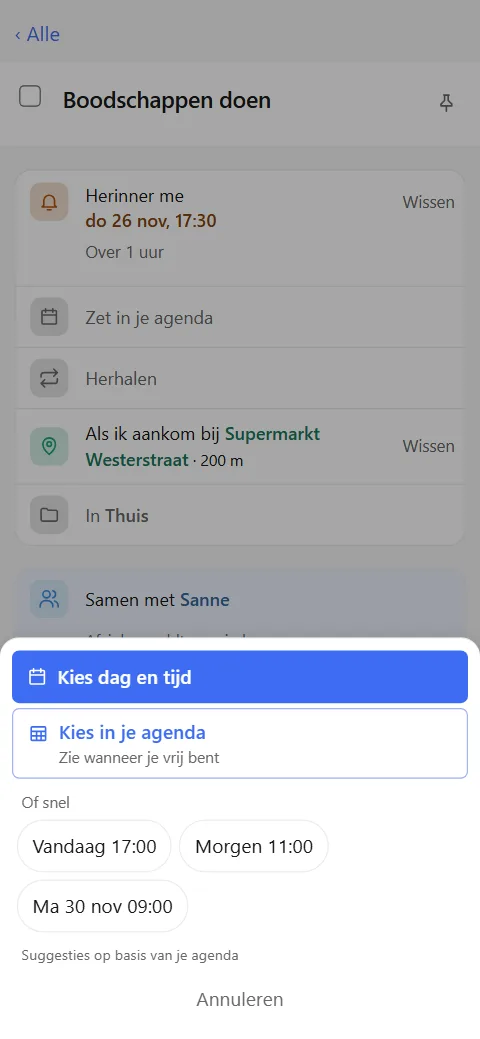
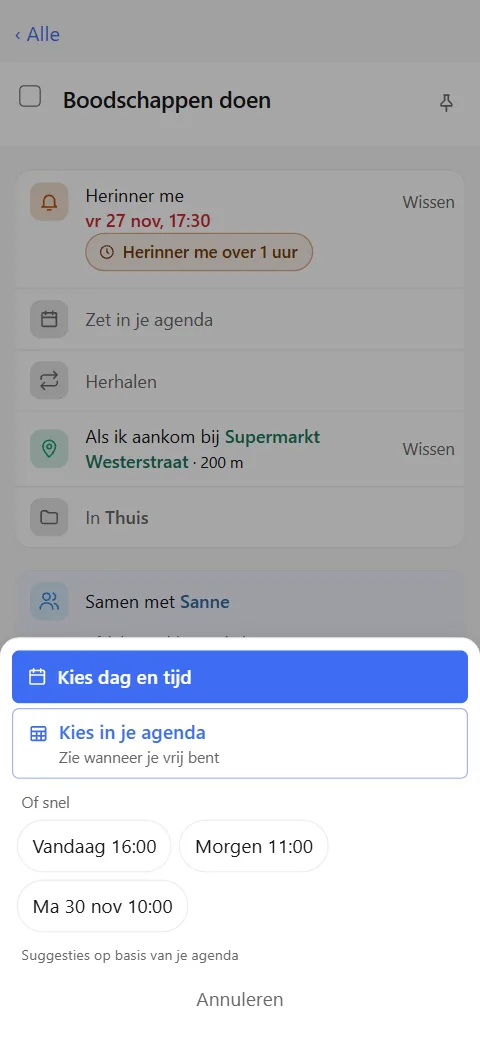
Q-10: "Herinner me over 1 uur" als rustige pil-knop; website-plaatjes herinnering vernieuwd
- De actie op een eigen regel onder een stap (steps.js) is nu een pil in de kleur van de stap, met een klokje
  (nieuw icoon clock), linkerrand onder de tekst; knop 44 px op touch, compact met muis, focusring op de pil.
- Wat is er nieuw (20261128.snooze) noemt de knop; handleiding tasks-and-lists bijgewerkt.
- site/public/img/app/nl-remind.webp en en-remind.webp opnieuw gemaakt met de huidige app (zelfde scene).
- CACHE v118.

diff --git a/public/style.css b/public/style.css
@@ -136,7 +136,17 @@ button.step-head:focus-visible { background: var(--hover); }
 .step.stack .step-txt { white-space: normal; }
 .step.stack .step-val { display: block; }
 .step.stack:has(> .step-line) .step-txt { padding-bottom: 0; }
-.step-line { display: flex; margin-top: -6px; padding: 0 0 4px 32px; }
+.step-line { display: flex; margin-top: -6px; padding: 0 0 4px 40px; }
+/* De actie op een eigen regel ("Herinner me over 1 uur") is een echte knop: een rustige pil in de kleur van de stap, met de
+   linkerrand recht onder de tekst van de zin. De knop zelf blijft 44 px hoog (touch); alleen de pil is zichtbaar. */
+.step-act.step-pill { display: flex; align-items: center; min-width: 0; max-width: 100%; padding: 0; background: transparent; text-align: left; }
+.step-pill:hover, .step-pill:focus-visible { background: transparent; }
+.step-pill:focus-visible { outline: none; }
+.step-pill-in { display: inline-flex; align-items: center; gap: 6px; min-height: 32px; padding: 3px 12px 3px 10px; border: 1px solid color-mix(in srgb, var(--c) 45%, transparent); border-radius: 999px;
+  background: color-mix(in srgb, var(--c) 10%, var(--card)); color: color-mix(in srgb, var(--c) 60%, var(--text)); font-weight: 500; line-height: 1.25; transition: background .15s, border-color .15s; }
+.step-pill:hover .step-pill-in, .step-pill:focus-visible .step-pill-in { border-color: var(--c); background: color-mix(in srgb, var(--c) 20%, var(--card)); }
+.step-pill:active .step-pill-in { background: color-mix(in srgb, var(--c) 28%, var(--card)); }
+.step-pill:focus-visible .step-pill-in { outline: 2px solid var(--accent); outline-offset: 2px; }
 .step-body { margin: 2px 0 10px 40px; }
 #add .step-input { width: 100%; padding: 7px 10px; border: 1px solid var(--line); border-radius: 8px; background: var(--card); color: var(--text); font: inherit; font-size: .9375rem; }
 #add .step-input:focus { outline: 2px solid var(--accent); outline-offset: 0; }
@@ -579,7 +589,7 @@ textarea.dt:disabled { color: var(--muted); text-decoration: line-through; }
   #detail .share-list .step-act, #detail .dfoot button.danger { min-height: 44px; }
 }
 /* Met een muis mag de knop op de eigen regel lager: de rij wordt dan minder hoog */
-@media (pointer: fine) { .step-line .step-act { min-height: 32px; } }
+@media (pointer: fine) { .step-line .step-act { min-height: 36px; } .step-pill-in { min-height: 28px; } }
 @media all {
   #detail { --dpx: 18px; --inset: color-mix(in srgb, var(--card) 50%, var(--side)); --tile: color-mix(in srgb, var(--muted) 18%, var(--card)); background: var(--side); }
   #detail .dhead { margin: 0 calc(-1 * var(--dpx)); padding: 14px var(--dpx); background: var(--bg); border-bottom: 1px solid var(--line); }
@@ -594,7 +604,7 @@ textarea.dt:disabled { color: var(--muted); text-decoration: line-through; }
   #detail .step-head { gap: 14px; min-height: 50px; padding: 0 14px 0 12px; border-radius: 0; }
   #detail .step-dot { width: 32px; height: 32px; border: 0; border-radius: 9px; background: var(--tile); }
   #detail .step-dot .ico { width: 18px; height: 18px; }
-  #detail .step-line { padding: 0 0 6px 50px; } /* 12 + 32 (stip) + 14 (tussenruimte) − 8 (binnenrand knop) */
+  #detail .step-line { padding: 0 0 8px 58px; } /* 12 + 32 (stip) + 14 (tussenruimte): de pil begint onder de tekst */
   #detail .step.on .step-dot { background: color-mix(in srgb, var(--c) 20%, var(--card)); }
   #detail .step-share.on .step-row, #detail .step-share.on .step-hint { background: color-mix(in srgb, var(--accent) 8%, var(--card)); }
   #detail .step-share .step-body, #detail .step-copies .step-body { margin: 0; }

diff --git a/public/i18n.js b/public/i18n.js
@@ -550,7 +550,7 @@ export const STRINGS = {
     'news.20261123.import': 'Moving from Todoist or TickTick: Settings → Data. You see what comes in first (now with repeats and priority), and you can undo the import in one go.',
     'news.20261123.address': 'Settings → Advanced → Keys now shows the address of your Tick, with a Copy button, for connections like Home Assistant.',
     'news.20261126.faster': 'Long lists are much faster: a change to a task is saved and shown right away, without loading the whole list again.',
-    'news.20261128.snooze': '"Remind me in 1 hour" now only shows under a reminder once its time has passed.',
+    'news.20261128.snooze': '"Remind me in 1 hour" is now a clear button, and only shows under a reminder once its time has passed.',
     'news.20261126.design': 'A calmer look: flat task cards without a glow, the reminder date on its own line with "In 1 hour" below it, and bigger buttons in the calendar on your phone.',
     'news.20261125.hatrigger_when': 'A Home Assistant trigger now shows when it notified you and which trigger it was. If none of your devices could be reached, the task waits for the next time.',
     'news.20261124.hatrigger': 'Using Home Assistant? A task can now notify you when something happens at home, like someone coming home or the sun setting. Pick the trigger on the task; you can share triggers with your household (Settings → Home Assistant).',
@@ -2034,7 +2034,7 @@ export const STRINGS = {
     'news.20261123.import': 'Overstappen vanuit Todoist of TickTick: Instellingen → Gegevens. Je ziet eerst wat er binnenkomt (nu met herhalingen en prioriteit), en je kunt de import in één keer ongedaan maken.',
     'news.20261123.address': 'Instellingen → Geavanceerd → Sleutels toont nu het adres van je Tick, met een Kopieer-knop, voor koppelingen zoals Home Assistant.',
     'news.20261126.faster': 'Lange lijsten zijn veel sneller: een wijziging aan een taak staat meteen goed, zonder dat de hele lijst opnieuw laadt.',
-    'news.20261128.snooze': '"Herinner me over 1 uur" staat nu alleen onder een herinnering als de tijd al voorbij is.',
+    'news.20261128.snooze': '"Herinner me over 1 uur" is nu een duidelijke knop, en staat alleen onder een herinnering als de tijd al voorbij is.',
     'news.20261126.design': 'Een rustiger uiterlijk: effen taken zonder gloed, de datum van een herinnering op een eigen regel met "Over 1 uur" eronder, en grotere knoppen in de kalender op je telefoon.',
     'news.20261125.hatrigger_when': 'Een Home Assistant-trigger laat nu zien wanneer hij je meldde en welke trigger het was. Kon geen enkel apparaat bereikt worden, dan wacht de taak op de volgende keer.',
     'news.20261124.hatrigger': 'Gebruik je Home Assistant? Een taak kan je nu een melding geven als er thuis iets gebeurt, zoals iemand die thuiskomt of de zon die ondergaat. Kies de trigger bij de taak; je kunt triggers delen met je huisgenoten (Instellingen → Home Assistant).',

diff --git a/public/steps.js b/public/steps.js
@@ -15,10 +15,11 @@ import { openAgendaPicker } from './agendapick.js';
  * Eén stap: stip met icoon, een zin (vaste woorden en de gekozen waarde, vet in de kleur) en rechts acties zoals Wissen.
  * Zonder `open` is de zin gewone tekst (alleen-lezen, of een subtaak die de lijst van de ouder volgt).
  * `stack`: de gekozen waarde op een eigen regel onder de vaste woorden ("Herinner me" / "vr 27 nov, 17:30"), zodat een lange
- * datum niet midden in de zin afbreekt. Een actie met `line` staat op een eigen regel onder de zin (zoals "Over 1 uur").
+ * datum niet midden in de zin afbreekt. Een actie met `line` staat op een eigen regel onder de zin (zoals "Herinner me over 1 uur"),
+ * als een echte knop (een pil, met `icon` ervoor), niet als stille tekst zoals Wissen.
  * @param {{
  *   kind: string, icon: Parameters<typeof icon>[0], on: boolean, lead: string, value?: string | null, note?: string | null,
- *   open?: ((anchor: HTMLElement) => void) | null, actions?: ({ label: string, title?: string, run: () => void, line?: boolean } | null)[],
+ *   open?: ((anchor: HTMLElement) => void) | null, actions?: ({ label: string, title?: string, run: () => void, line?: boolean, icon?: Parameters<typeof icon>[0] } | null)[],
  *   sub?: HTMLElement | null, body?: HTMLElement | null, past?: boolean, pressed?: boolean, expanded?: boolean, stack?: boolean,
  * }} s
  */
@@ -36,11 +37,14 @@ export function step(s) {
     }, ...content)
     : el('div', { class: 'step-head' }, ...content);
   const button = (a) => el('button', { type: 'button', class: 'step-act', title: a.title ?? false, onclick: a.run }, a.label);
-  const all = /** @type {{ label: string, title?: string, run: () => void, line?: boolean }[]} */ ((s.actions ?? []).filter(Boolean));
+  // De knop is 44 px hoog (touch, zie style.css); de pil erin is het zichtbare deel.
+  const pill = (a) => el('button', { type: 'button', class: 'step-act step-pill', title: a.title ?? false, onclick: a.run },
+    el('span', { class: 'step-pill-in' }, a.icon ? icon(a.icon, 'sm') : null, a.label));
+  const all = /** @type {{ label: string, title?: string, run: () => void, line?: boolean, icon?: Parameters<typeof icon>[0] }[]} */ ((s.actions ?? []).filter(Boolean));
   const below = all.filter((a) => a.line);
   return el('div', { class: `step step-${s.kind}` + (s.on ? ' on' : '') + (s.past ? ' past' : '') + (s.stack ? ' stack' : '') },
     el('div', { class: 'step-row' }, head, ...all.filter((a) => !a.line).map(button)),
-    below.length ? el('div', { class: 'step-line' }, ...below.map(button)) : null, s.sub ?? null, s.body ?? null);
+    below.length ? el('div', { class: 'step-line' }, ...below.map(pill)) : null, s.sub ?? null, s.body ?? null);
 }
 
 let closeMenu = null;

diff --git a/public/detail.js b/public/detail.js
@@ -692,8 +692,8 @@ function drawRail(t) {
       kind: 'when', icon: 'bell', on: !!remindAt, past, lead: tr(remindAt ? (cond?.all ? 'condall.from' : 'add.when_set') : 'add.when'), value: remindAt ? fmt(remindAt) : null,
       note: remindAt && !done && !past ? duringNote(remindAt) : null,
       open: opener('when', v.pickWhen), stack: true,
-      // Wissen rechts in de rij; "Herinner me over 1 uur" alleen als de tijd voorbij is, op een eigen regel eronder (een knop, geen info).
-      actions: done || !remindAt ? [] : [clear(v.clearRemind, tr('detail.remove_reminder')), cond?.all || !past ? null : { label: tr('detail.snooze_hour'), run: v.snoozeRemind, line: true }],
+      // Wissen rechts in de rij; "Herinner me over 1 uur" alleen als de tijd voorbij is, op een eigen regel eronder, als pil-knop (steps.js).
+      actions: done || !remindAt ? [] : [clear(v.clearRemind, tr('detail.remove_reminder')), cond?.all || !past ? null : { label: tr('detail.snooze_hour'), icon: 'clock', run: v.snoozeRemind, line: true }],
     }),
     done || !remindAt ? null : step({ kind: 'addcal', icon: 'calendar', on: false, lead: tr('detail.add_cal'), open: opener('addcal', v.addToCalendar) }),
     // Een subtaak herhaalt niet; afgerond alleen als er een ritme was.

diff --git a/public/sw.js b/public/sw.js
@@ -2,7 +2,7 @@
 
 // App-shell voor offline gebruik. Network-first: online krijg je altijd de nieuwste versie (geen mix van oude en
 // nieuwe modules na een deploy), offline de laatst bewaarde. Verhoog de versie als de lijst hieronder verandert.
-const CACHE = 'tick-shell-v117';
+const CACHE = 'tick-shell-v118';
 const SHELL = [
   '/', '/app.js', '/api.js', '/db.js', '/store.js', '/render.js', '/review.js', '/planner.js', '/agenda.js', '/agendagrid.js', '/agendapick.js', '/ics.js', '/manager.js', '/push.js', '/style.css', '/sortable.min.js',
   '/markdown.js', '/lists.js', '/editor.js', '/sidebar.js', '/detail.js', '/listpicker.js', '/listmenu.js', '/dialog.js',

diff --git a/public/icons.js b/public/icons.js
@@ -9,6 +9,7 @@ const PATHS = {
   plus: 'M12 5v14M5 12h14',
   car: 'M5 11l1.5-4.5A2 2 0 0 1 8.4 5h7.2a2 2 0 0 1 1.9 1.5L19 11M3 16v-3a2 2 0 0 1 2-2h14a2 2 0 0 1 2 2v3H3zM5 16v2h3v-2M16 16v2h3v-2M7 13.5h.01M17 13.5h.01',
   bell: 'M6 16v-5a6 6 0 0 1 12 0v5l2 2H4zM10 21h4',
+  clock: 'M12 21a9 9 0 1 0 0-18 9 9 0 0 0 0 18zM12 7v5l3 2',
   repeat: 'M17 2l4 4-4 4M3 11V9a3 3 0 0 1 3-3h15M7 22l-4-4 4-4M21 13v2a3 3 0 0 1-3 3H3',
   place: 'M12 21s-7-6.2-7-11.5a7 7 0 0 1 14 0C19 14.8 12 21 12 21zM12 12a2.5 2.5 0 1 0 0-5 2.5 2.5 0 0 0 0 5z',
   folder: 'M3 7a2 2 0 0 1 2-2h4l2 2h8a2 2 0 0 1 2 2v8a2 2 0 0 1-2 2H5a2 2 0 0 1-2-2z',

diff --git a/docs/tasks-and-lists.md b/docs/tasks-and-lists.md
@@ -40,7 +40,7 @@ Sharing and attachments are sent once the task is on your Tick, so they need a c
 
 Open a task to give it a reminder, a place, notes, subtasks or attachments. On a wide screen the task opens in a panel on the right (drag its edge to make it wider or narrower); on a phone it fills the screen and **‹** or the back button takes you back. Title and notes save while you type.
 
-The task looks like the card you added it with. Under the title is the same line of sentences, each with its colored dot: **Remind me…**, **Repeat**, **Remind me at a place**, **In Inbox** and **Do it together with…**. A sentence in grey is not set yet; tap it to set it, with the same pickers as in the card. Something you set shows in color, with *Clear* behind it. The reminder shows its date on a line of its own. Once that time has passed and the task isn't done, **Remind me in 1 hour** appears below it, which moves the reminder an hour later. Under a place it says when you were already notified, with **Notify again**. Who you share the task with is listed under *Together with*, with *Remove* or *Leave*. In a shared list the line **Notify me when this is ticked off** takes the place of sharing. A subtask has no *Repeat*, and its list says it follows the parent task.
+The task looks like the card you added it with. Under the title is the same line of sentences, each with its colored dot: **Remind me…**, **Repeat**, **Remind me at a place**, **In Inbox** and **Do it together with…**. A sentence in grey is not set yet; tap it to set it, with the same pickers as in the card. Something you set shows in color, with *Clear* behind it. The reminder shows its date on a line of its own. Once that time has passed and the task isn't done, a **Remind me in 1 hour** button (with a small clock) appears below it, which moves the reminder an hour later. Under a place it says when you were already notified, with **Notify again**. Who you share the task with is listed under *Together with*, with *Remove* or *Leave*. In a shared list the line **Notify me when this is ticked off** takes the place of sharing. A subtask has no *Repeat*, and its list says it follows the parent task.
 
 Below the sentences are the **Description**, **Subtasks** and **Attachments**. A completed task shows only what it has, and you cannot change it until you reopen it.
 
